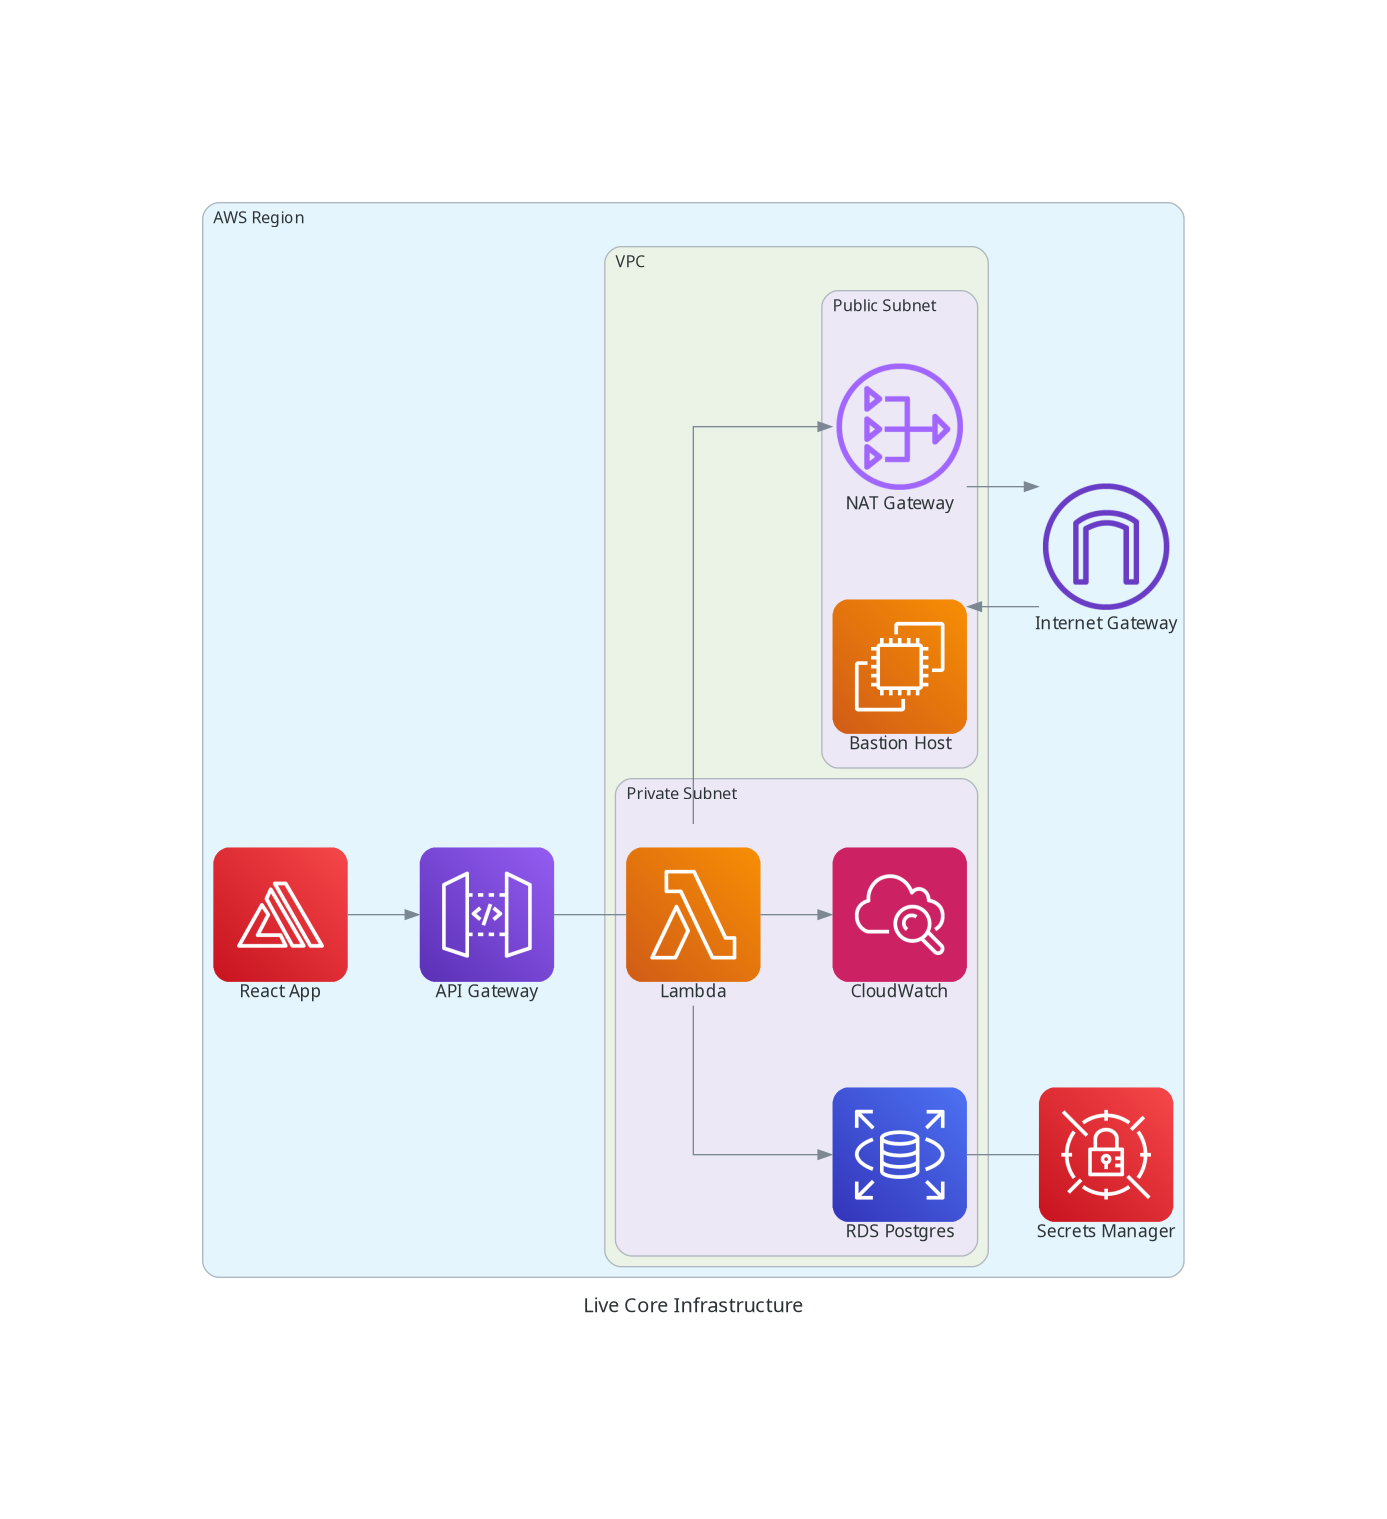
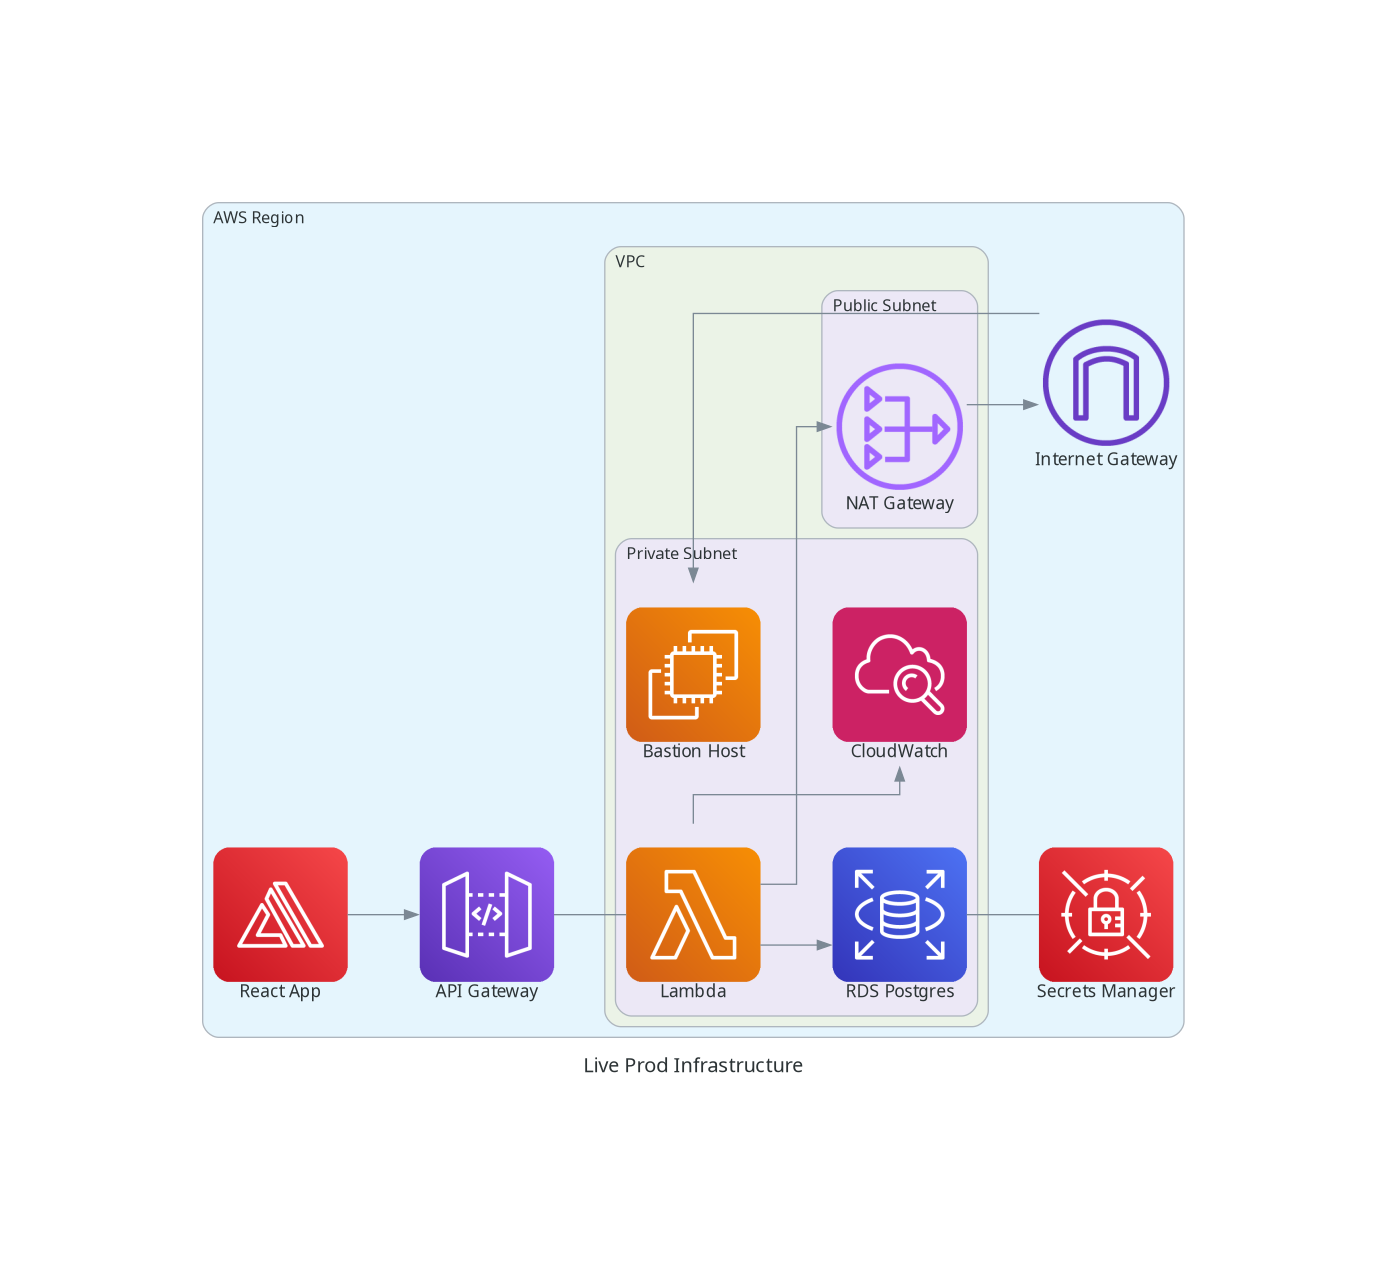
chore: Updated modules and dac

Changed region(s): [[0.124, 0.122, 0.8681, 0.8843]]

diff --git a/tools/dac/live_core.py b/tools/dac/live_core.py
@@ -11,10 +11,10 @@ with Diagram("Live Prod Infrastructure", show=False):
     with Cluster("AWS Region"):
         with Cluster("VPC"):
             with Cluster("Public Subnet"):
-                bastion_host = EC2("Bastion Host")
                 nat_gateway = NATGateway("NAT Gateway")
 
             with Cluster("Private Subnet"):
+                bastion_host = EC2("Bastion Host")
                 lambda_func = Lambda("Lambda")
                 rds = RDS("RDS Postgres")
 

diff --git a/modules/bastion/README.md b/modules/bastion/README.md
@@ -18,16 +18,40 @@ module "bastion" {
 }
 ```
 
-## EC2 Instance Provisioning
+## Architecture
 
-The created EC2 instance is provisioned using [cloud-init](https://cloudinit.readthedocs.io/en/latest/). The following steps are performed:
+### Target technology stack
 
-- Install the latest version of Docker
-- Setup AWS CloudWatch Logs agent
-- Setup SSH access for the specified key pair
-- Setup a user account for the specified key pair
-- Setup a user account for the specified IAM instance profile
-- Install AWS Session Manager Agent
+- VPC with at least one private subnet
+- 3 VPC (Interface) Endpoints with corresponding security groups and security group rules
+- EC2 instance (t3.nano) with Ubuntu 24.04 installed with associated:
+  - IAM role
+  - IAM instance profile
+  - security group
+
+### Target architecture
+
+![Architecture](docs/secure_bastion_host.png)
+
+We deploy single isolated EC2 instance (t3.nano) with Ubuntu 24.04 installed inside of the private subnet in created
+VPC. Instance does not expose any ports and does not have public IP assigned. It is fully isolated from the Internet and
+uses VPC (Interface) Endpoints to communicate with AWS services (Systems Manager and EC2). You are going to assume an
+IAM role with associated IAM policies that grant you required privileges to authenticate, authorize and connect to EC2
+instance.
+Following [the least privilege principle](https://docs.aws.amazon.com/IAM/latest/UserGuide/best-practices.html#grant-least-privilege),
+created EC2 instance does not have access to other resources in your AWS account. You have to explicitly grant it by
+assigning IAM policies to IAM role used by EC2 instance.
+
+### Automation and scale
+
+This pattern can be adopted to be a part of a larger infrastructure code and deployed in an automated way using CI/CD
+tools. You can modify the code to change the type of deployed EC2 instance to adjust its parameters to your specific
+needs.
+
+### EC2 Instance Provisioning
+
+The created EC2 instance is provisioned using [cloud-init](https://cloudinit.readthedocs.io/en/latest/). You can
+customize the instance provisioning by modifying the content of the `cloud_init` template file at `templates/cloud_init.tpl`.
 
 ## Connecting to the Bastion Host Using Session Manager
 
@@ -35,7 +59,8 @@ The created EC2 instance is provisioned using [cloud-init](https://cloudinit.rea
 
 Ensure the following prerequisites are met:
 
-1. **Session Manager Plugin**: Ensure the Session Manager Plugin is installed on your local machine. Check the [AWS Session Manager Plugin Installation Guide](https://docs.aws.amazon.com/systems-manager/latest/userguide/session-manager-working-with-install-plugin.html) for more information.
+1. **AWS Command Line Interface v2**: Ensure the AWS CLI is installed on your local machine. Check the [AWS CLI Installation Guide](https://docs.aws.amazon.com/cli/latest/userguide/install-cliv2.html) for more information.
+2. **Session Manager Plugin**: Ensure the Session Manager Plugin is installed on your local machine. Check the [AWS Session Manager Plugin Installation Guide](https://docs.aws.amazon.com/systems-manager/latest/userguide/session-manager-working-with-install-plugin.html) for more information.
 
 ### Setup Local Environment
 

diff --git a/tools/dac/README.md b/tools/dac/README.md
@@ -1,0 +1,76 @@
+# 📊 Diagram as Code Scripts
+
+This directory contains scripts to generate infrastructure diagrams using Python.
+
+## 🚀 Getting Started
+
+### Prerequisites
+
+Ensure you have the following installed:
+
+- Python (managed by `pyenv`)
+- `pyenv`
+- `pipenv`
+
+### 📂 Project Structure
+
+```
+.
+├── live_core.py         # Diagram as Code script for live production infrastructure
+├── Pipfile              # Pipenv configuration file
+├── Pipfile.lock         # Pipenv lock file
+└── .python-version      # Python version file managed by pyenv
+```
+
+### 🔧 Setup Instructions
+
+1. **Install `pyenv`**:
+
+   ```sh
+   curl https://pyenv.run | bash
+   ```
+
+   Follow the instructions to add `pyenv` to your shell.
+
+2. **Install the required Python version**:
+
+   ```sh
+   pyenv install
+   pyenv local
+   ```
+
+3. **Install `pipenv`**:
+
+   ```sh
+   pip install --user pipenv
+   ```
+
+4. **Create and activate a virtual environment using `pipenv`**:
+
+   ```sh
+   pipenv install
+   pipenv shell
+   ```
+
+5. **Install project dependencies**:
+
+   ```sh
+   pipenv install --dev
+   ```
+
+### 📜 Usage
+
+To generate the infrastructure diagram, run the following command inside the `pipenv` shell:
+
+```sh
+python live_core.py
+```
+
+This will create a diagram of the live production infrastructure, showcasing the relationships between different AWS components.
+
+### 📦 Dependencies
+
+This project relies on the following Python packages:
+
+- `diagrams`
+- Other dependencies specified in `Pipfile`

diff --git a/README.md b/README.md
@@ -99,6 +99,12 @@ These apps and services are located in the `apps` directory. In there you can fi
 | :-------------------------------------------------------------- | :------------------------------------------------------------------------------------------------ |
 | [Start and Stop EC2 Instance](./apps/start-stop-ec2-instances/) | This is a Serverless Framework based project to start and stop EC2 instances based on a schedule. |
 
+## Best practices
+
+- We recommend using automated code scanning tools to improve security and quality of the code. This pattern was scanned using [Checkov](https://www.checkov.io/) - a static code analysis tool for infrastructure-as-code. It scans cloud infrastructure code defined using Terraform, CloudFormation, Kubernetes, Helm, ARM Templates and Serverless framework platforms and detects security and compliance misconfigurations.
+- Additionally, we recommend at minimum to perform basic validation and formatting checks using `terraform validate` and `terraform fmt -check -recursive` Terraform commands.
+- It’s a good practice to add automated tests for infrastructure code. You can refer to this Terraform Blog post to learn more about different approaches to testing Terraform code.
+
 ## Contributing
 
 We appreciate contributions from the open-source community. Any contributions you make are **truly appreciated**. Please refer to our [contribution guidelines](./CONTRIBUTING.md) for more information.
